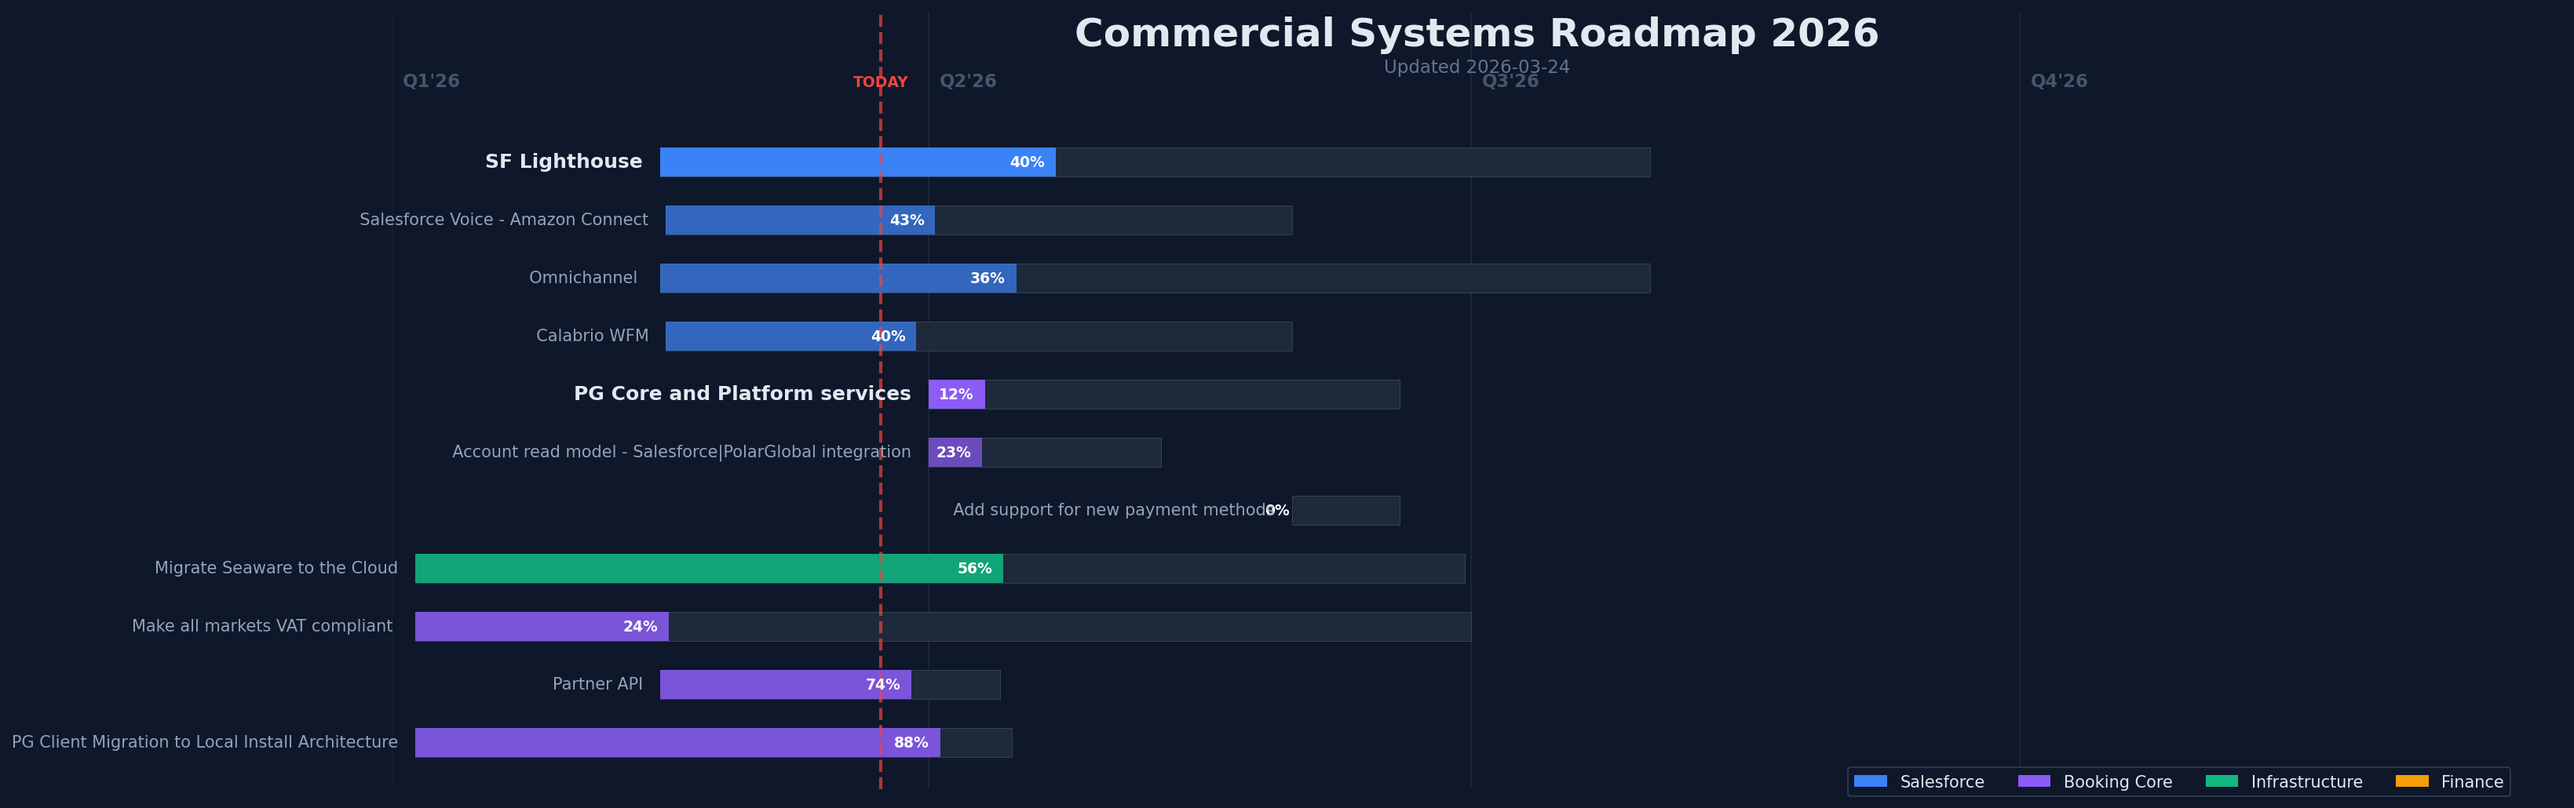
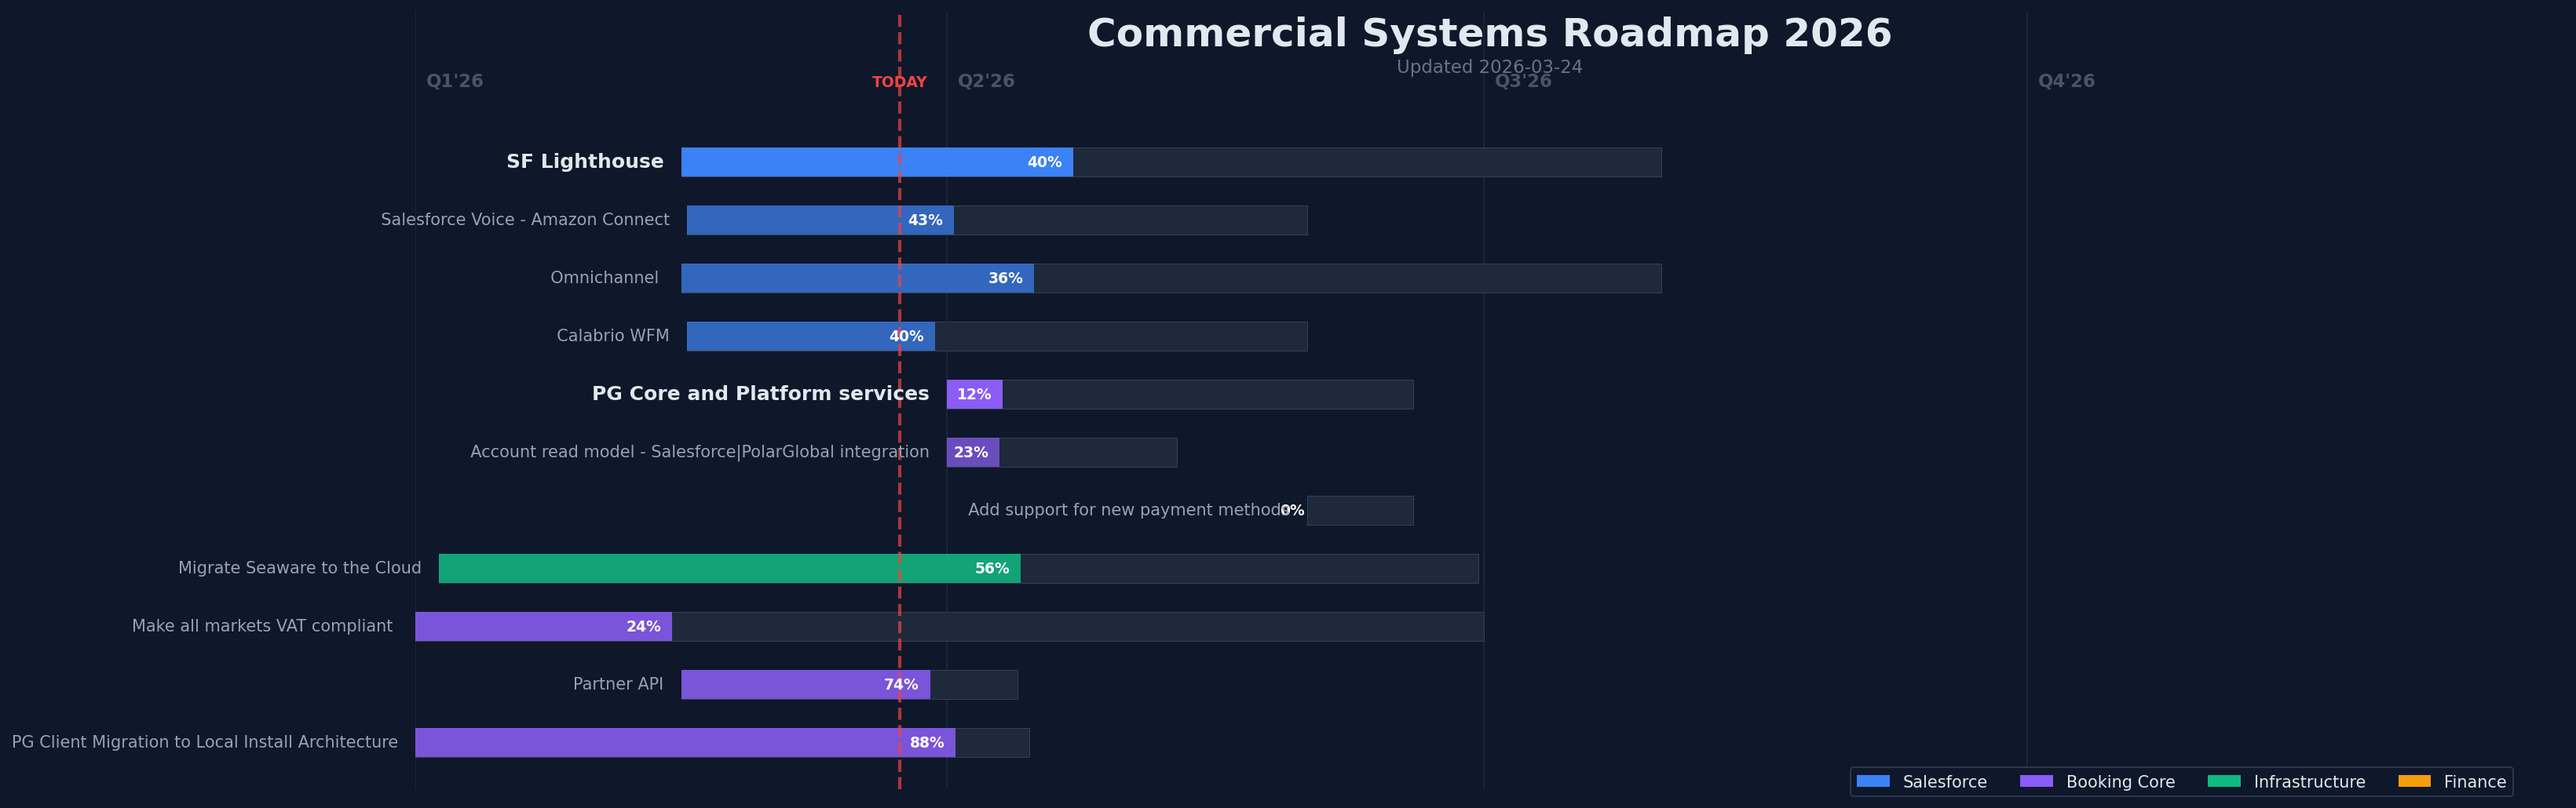
Auto-sync 2026-03-24

diff --git a/index.html b/index.html
@@ -64,9 +64,9 @@ const DATA = [
   { name: "sep" },
   { name: "Migrate Seaware to the Cloud", start: "2026-01-05", end: "2026-06-30", pct: 56, cat: "infra", jira: "https://hurtigruten.atlassian.net/browse/INFRA-2468", status: "20/39 done, 4 in progress, 15 to do. Weighted: 56%" },
   { name: "sep" },
-  { name: "Make all markets VAT compliant ", start: "2026-01-05", end: "2026-07-01", pct: 24, cat: "core", jira: "https://hurtigruten.atlassian.net/browse/PC-3888", status: "2/15 done, 2 in progress, 10 to do, 1 blocked. Weighted: 24%" },
+  { name: "Make all markets VAT compliant ", start: "2026-01-01", end: "2026-07-01", pct: 24, cat: "core", jira: "https://hurtigruten.atlassian.net/browse/PC-3888", status: "2/15 done, 2 in progress, 10 to do, 1 blocked. Weighted: 24%" },
   { name: "Partner API", start: "2026-02-15", end: "2026-04-13", pct: 74, cat: "core", jira: "https://hurtigruten.atlassian.net/browse/AV-2324", status: "4/8 done, 3 in progress, 1 to do. Weighted: 74%" },
-  { name: "PG Client Migration to Local Install Architecture", start: "2026-01-05", end: "2026-04-15", pct: 88, cat: "core", jira: "https://hurtigruten.atlassian.net/browse/PC-3731", status: "14/17 done, 2 in progress, 1 to do. Weighted: 88%" },
+  { name: "PG Client Migration to Local Install Architecture", start: "2025-12-01", end: "2026-04-15", pct: 88, cat: "core", jira: "https://hurtigruten.atlassian.net/browse/PC-3731", status: "14/17 done, 2 in progress, 1 to do. Weighted: 88%" },
 ];
 const C={sf:"#3B82F6",core:"#8B5CF6",infra:"#10B981",fin:"#F59E0B"};
 const RS=new Date("2026-01-01"),RE=new Date("2026-12-31"),TM=RE-RS;
